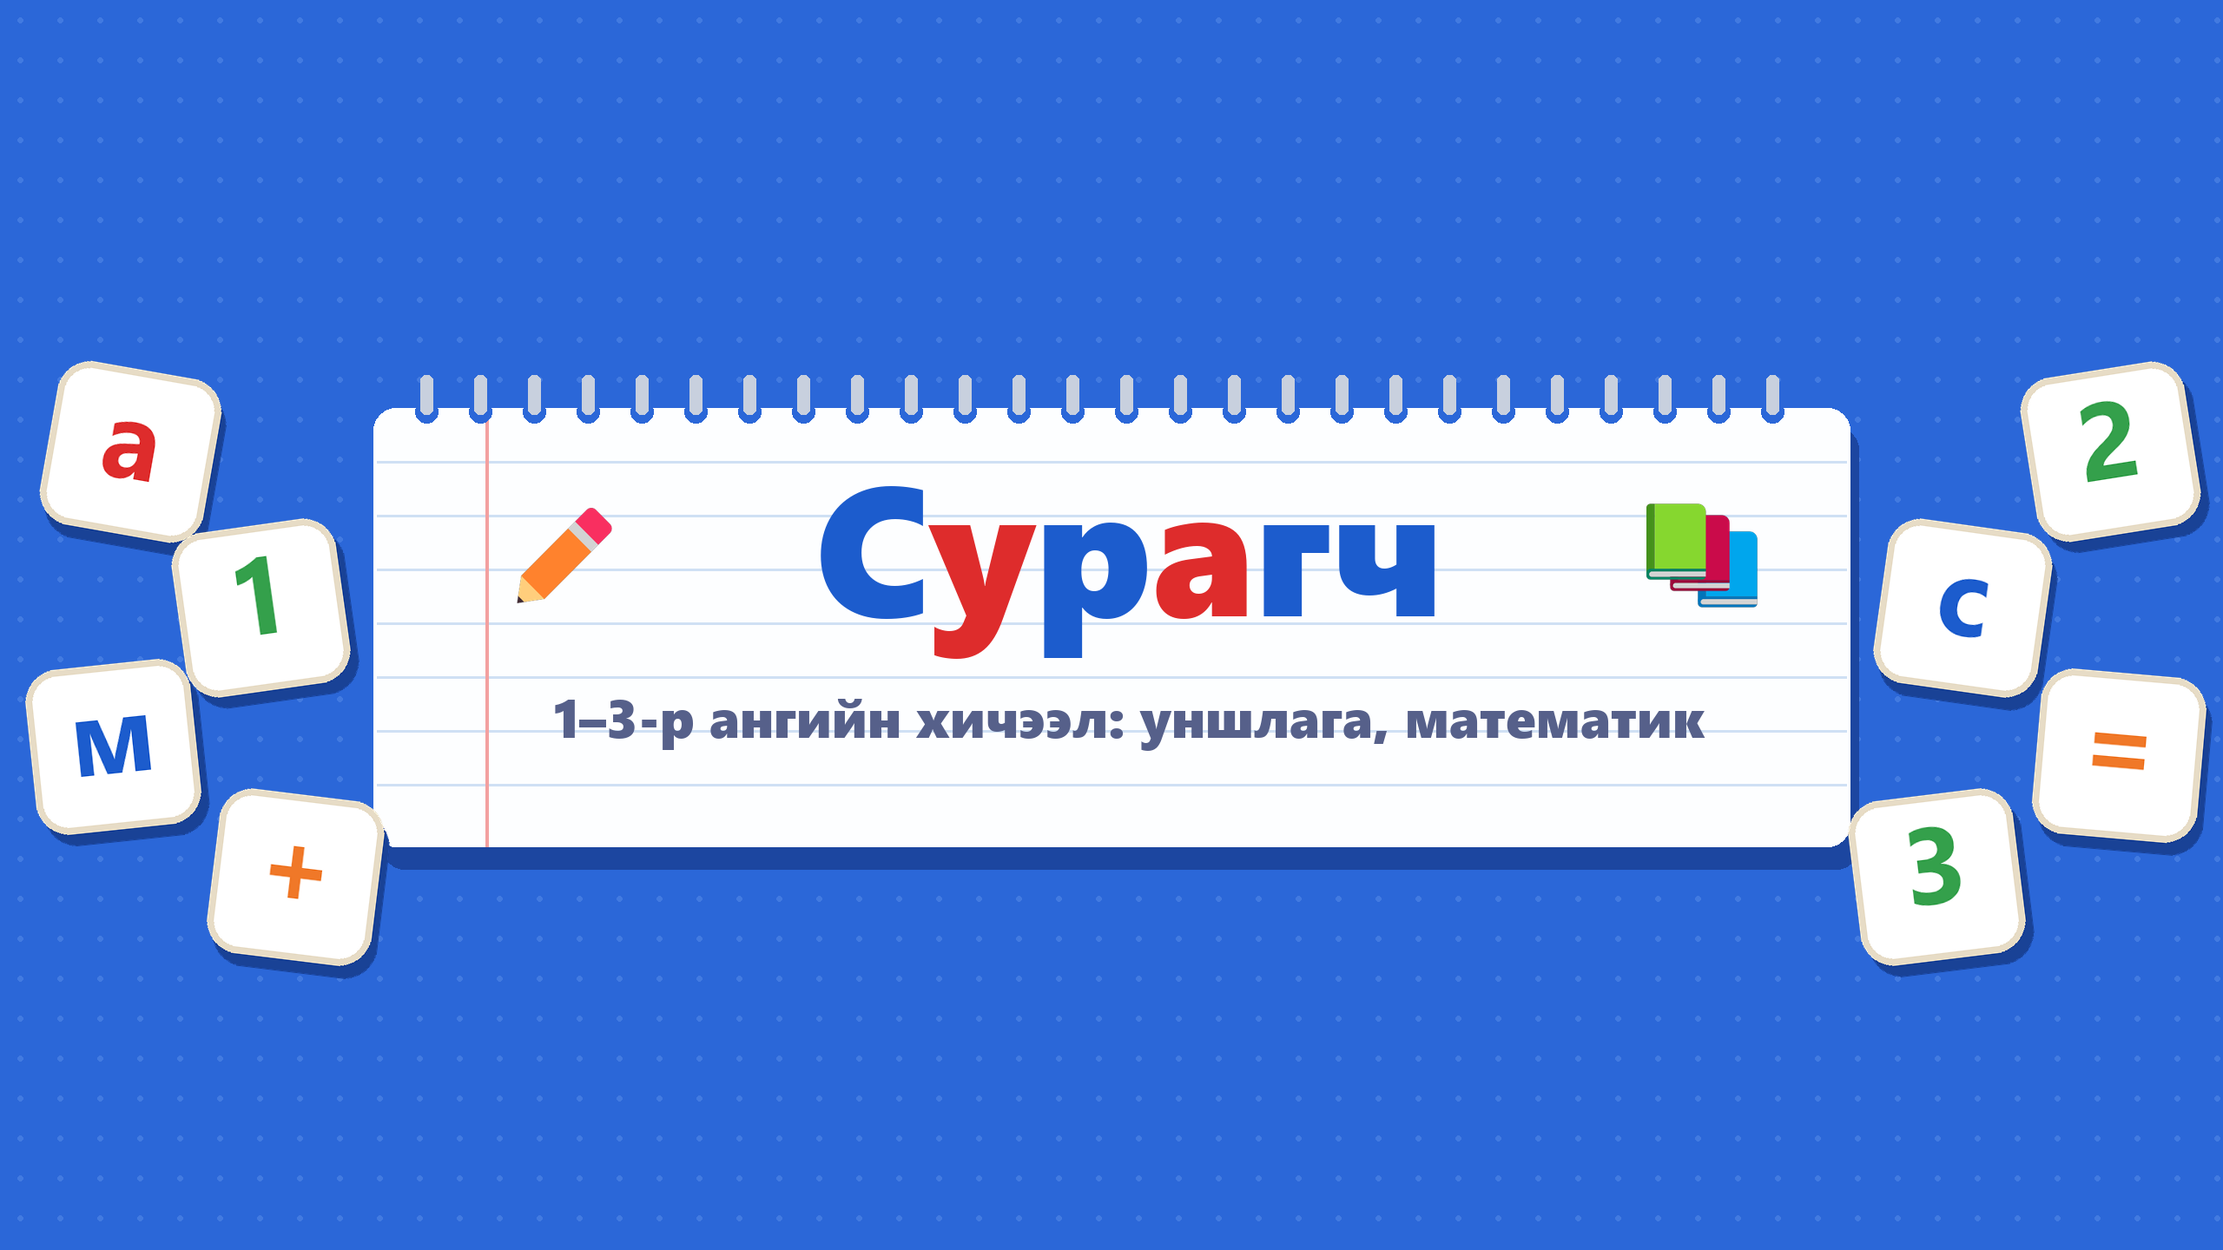
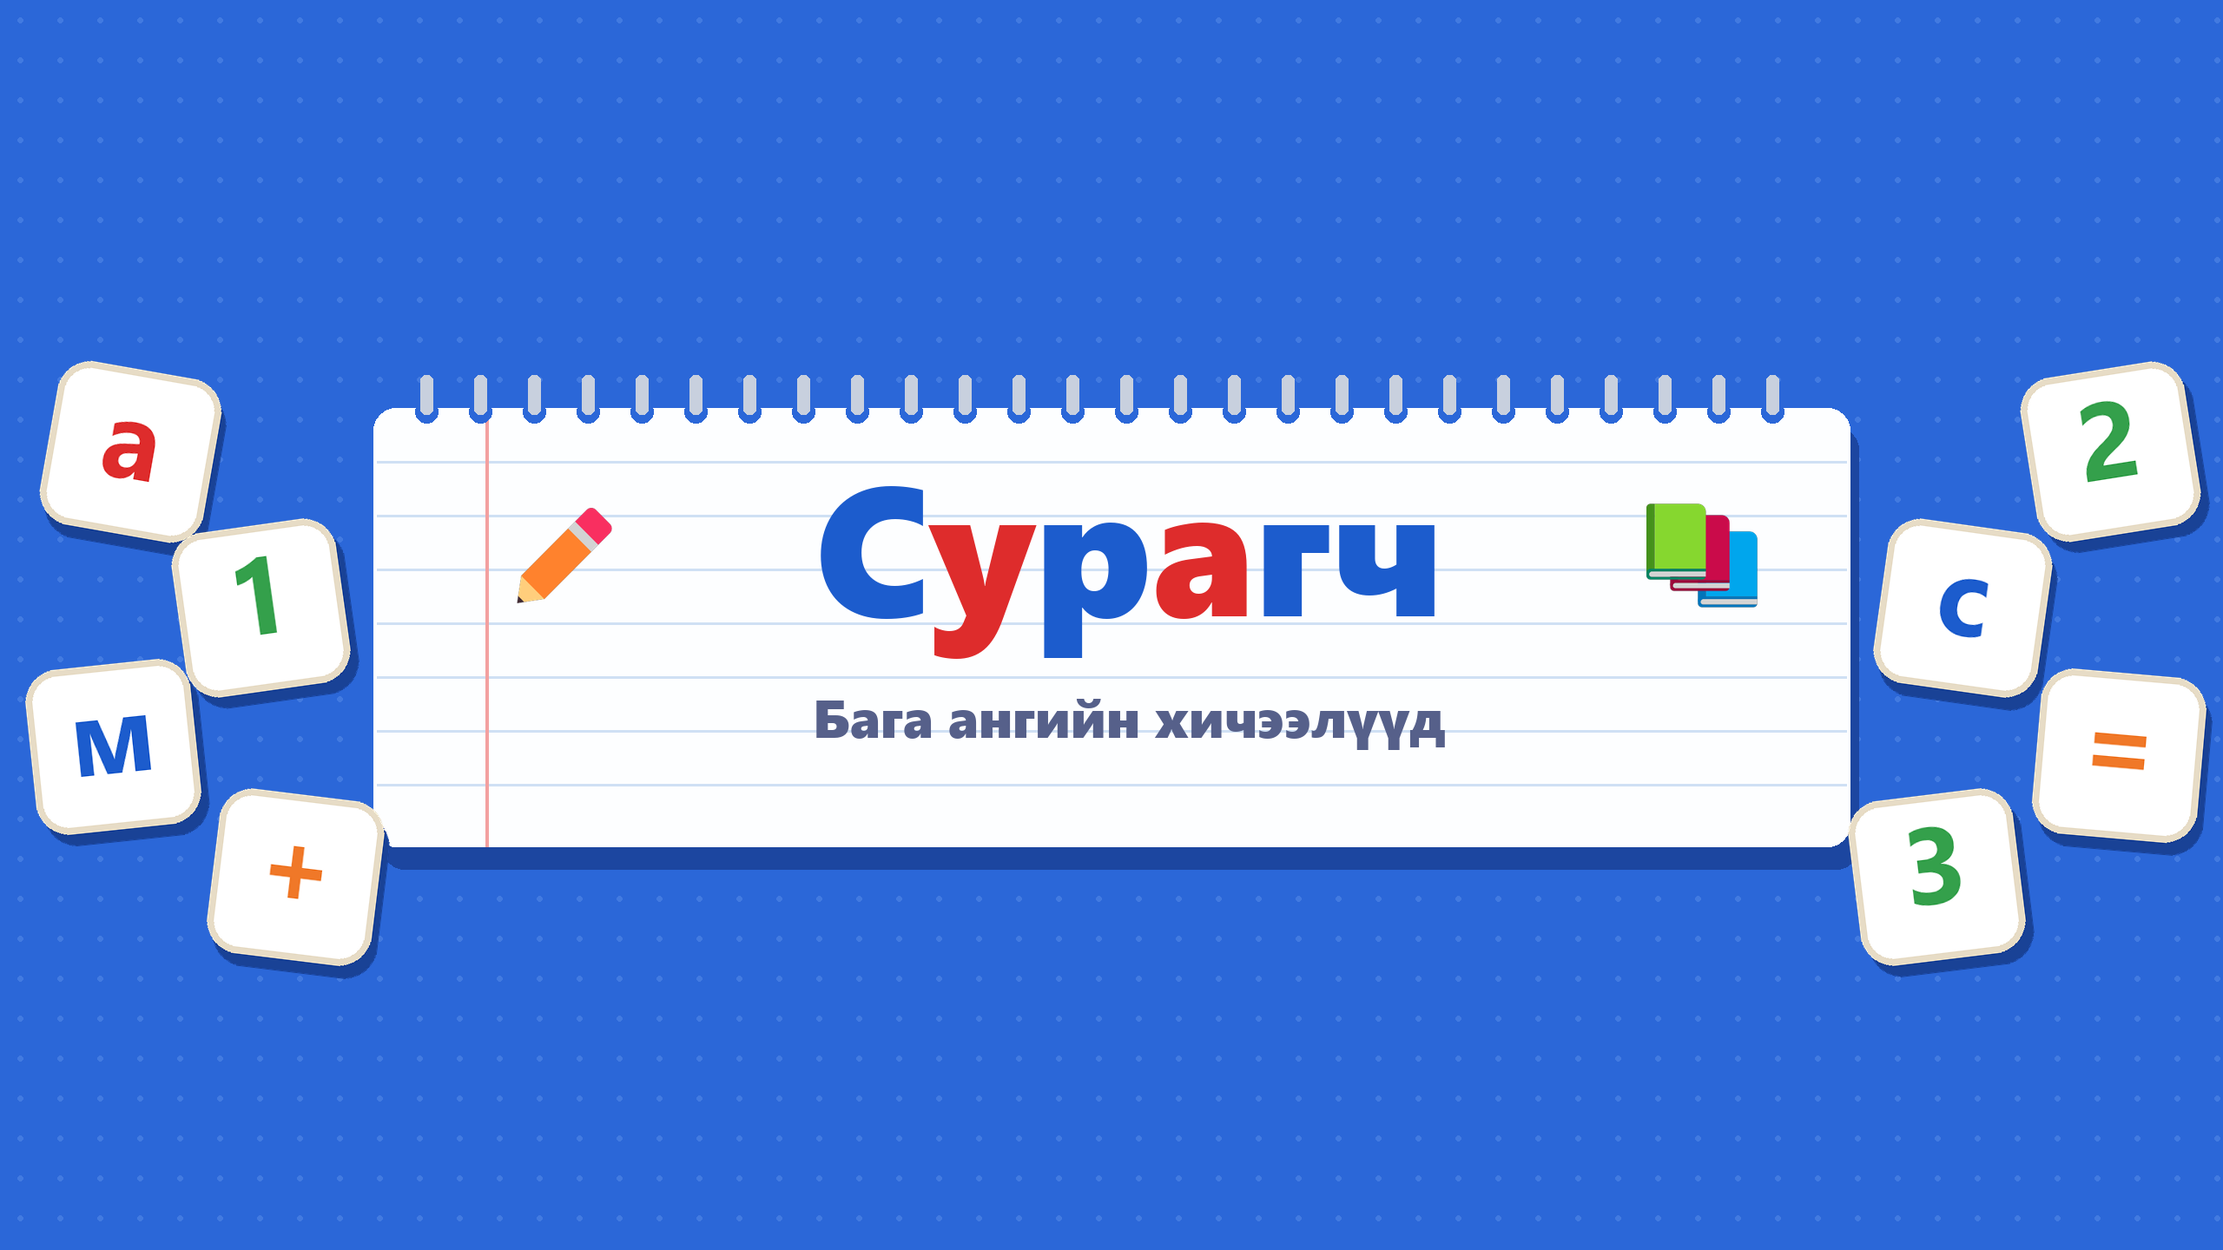
Бага анги (1–5) бүхэлд нь хамрах бүтэц: анги сонгох, ангийн хуудас, олон хичээл

Changed region(s): [[0.25, 0.5625, 0.7812, 0.5938]]

diff --git a/site/app.js b/site/app.js
@@ -97,60 +97,91 @@
   ];
 
   const BRAND = "Сурагч";
-  const GRADES = [1, 2, 3];
+  // Бага анги: 1-5. Шинэ хичээл нэмэхдээ доорх жагсаалтад нэмнэ (түлхүүр нь JSON-ийн "subject").
+  const GRADES = [1, 2, 3, 4, 5];
+  const GRADE_COLORS = ["#d92b2b", "#ef8a2a", "#3fa65a", "#2b67d8", "#8c36aa"];
   const SUBJECTS = [
-    ["reading", "📖", "Уншлага"],
+    ["mongol", "📖", "Монгол хэл"],
     ["math", "🔢", "Математик"],
+    ["orchin", "🌱", "Хүн ба орчин"],
+    ["baigal", "🔬", "Хүн ба байгаль"],
+    ["niigem", "🏛", "Хүн ба нийгэм"],
+    ["english", "🇬🇧", "Англи хэл"],
+    ["art", "🎨", "Дүрслэх урлаг, технологи"],
+    ["music", "🎵", "Хөгжим"],
+    ["pe", "⚽", "Биеийн тамир"],
   ];
-  const subjectName = (k) => (SUBJECTS.find((s) => s[0] === k) || [k, "", k])[2];
+  const subjectOf = (k) => SUBJECTS.find((s) => s[0] === k) || [k, "📘", k];
+  const subjectName = (k) => subjectOf(k)[2];
 
   function route() {
     stopAll();
     const [id, tab] = location.hash.replace(/^#\/?/, "").split("/");
     const lesson = LESSONS.find((l) => l.id === id);
-    if (lesson) lessonView(lesson, TABS.some((t) => t[0] === tab) ? tab : "video");
+    if (id === "g" && GRADES.includes(Number(tab))) gradeView(Number(tab));
+    else if (lesson) lessonView(lesson, TABS.some((t) => t[0] === tab) ? tab : "video");
     else home();
     window.scrollTo(0, 0);
   }
   window.addEventListener("hashchange", route);
 
   // ------------------------------------------------ нүүр
-  function lessonRow(l) {
+  function lessonRow(l, showPlace) {
+    const body = l.letters
+      ? `<div class="lesson-letters" aria-label="Үсгүүд: ${[...l.letters].join(", ")}">
+          ${[...l.letters].map((ch) => `<span class="mini${l.new.includes(ch) ? " new" : ""}">${colorize(ch)}</span>`).join("")}
+        </div>`
+      : `<div class="lesson-title">${esc(l.title || "")}</div>`;
     return `
       <li class="lesson-row">
         <span class="lesson-num" aria-hidden="true">${l.number}</span>
-        <div>
-          <div class="lesson-letters" aria-label="Үсгүүд: ${[...l.letters].join(", ")}">
-            ${[...l.letters].map((ch) => `<span class="mini${l.new.includes(ch) ? " new" : ""}">${colorize(ch)}</span>`).join("")}
-          </div>
-        </div>
+        <div>${body}${showPlace ? `<small>${l.grade}-р анги, ${subjectName(l.subject)}</small>` : ""}</div>
         <a class="btn" href="#/${l.id}">▶ ${l.number}-р хичээл</a>
       </li>`;
   }
 
   function home() {
-    document.title = `${BRAND} | 1–3-р ангийн хичээл`;
+    document.title = `${BRAND} | Бага ангийн хичээл`;
     const h1 = [...BRAND].map((ch, i) =>
       `<span class="tw ${cls(ch)}" style="animation-delay:${i * 60}ms">${esc(ch)}</span>`).join("");
+    const latest = LESSONS.slice().reverse().slice(0, 5);
     app.innerHTML = `
       <header class="hero">
         <h1 aria-label="${BRAND}">${h1}</h1>
-        <p>1–3-р ангийн хүүхдэд зориулсан хичээлүүд</p>
+        <p>Бага ангийн хүүхдэд зориулсан хичээлүүд</p>
       </header>
-      ${GRADES.map((g) => {
-        const inGrade = LESSONS.filter((l) => l.grade === g);
-        return `<section class="grade" aria-labelledby="g${g}">
-          <h2 class="grade-title" id="g${g}">${g}-р анги</h2>
-          ${inGrade.length ? SUBJECTS.map(([k, ico, name]) => {
-            const list = inGrade.filter((l) => l.subject === k);
-            return `<div class="subject">
-              <h3><span aria-hidden="true">${ico}</span> ${name}</h3>
-              ${list.length ? `<ol class="lesson-list">${list.map(lessonRow).join("")}</ol>`
-                : `<p class="soon">Удахгүй нэмэгдэнэ.</p>`}
-            </div>`;
-          }).join("") : `<p class="soon">Хичээлүүд удахгүй нэмэгдэнэ.</p>`}
+      <h2 class="sec-title">Ангиа сонгоорой</h2>
+      <nav class="grade-grid" aria-label="Ангиуд">
+        ${GRADES.map((g, i) => {
+          const n = LESSONS.filter((l) => l.grade === g).length;
+          return `<a class="grade-card${n ? "" : " empty"}" href="#/g/${g}" style="--gc:${GRADE_COLORS[i]}">
+            <span class="gnum">${g}</span><span class="glbl">-р анги</span>
+            <span class="gcount">${n ? `${n} хичээл` : "Удахгүй"}</span>
+          </a>`;
+        }).join("")}
+      </nav>
+      ${latest.length ? `<h2 class="sec-title">Шинэ хичээлүүд</h2>
+        <ol class="lesson-list">${latest.map((l) => lessonRow(l, true)).join("")}</ol>` : ""}`;
+  }
+
+  function gradeView(g) {
+    document.title = `${g}-р анги | ${BRAND}`;
+    const inGrade = LESSONS.filter((l) => l.grade === g);
+    const keys = [...new Set([...SUBJECTS.map((s) => s[0]), ...inGrade.map((l) => l.subject)])]
+      .filter((k) => inGrade.some((l) => l.subject === k));
+    app.innerHTML = `
+      <div class="lesson-head">
+        <a class="btn ghost back" href="#/">← Нүүр</a>
+        <h1>${g}-р анги</h1>
+      </div>
+      ${keys.map((k) => {
+        const [, ico, name] = subjectOf(k);
+        return `<section class="subject">
+          <h2 class="subject-title"><span aria-hidden="true">${ico}</span> ${name}</h2>
+          <ol class="lesson-list">${inGrade.filter((l) => l.subject === k).map((l) => lessonRow(l)).join("")}</ol>
         </section>`;
-      }).join("")}`;
+      }).join("")}
+      <p class="soon">${keys.length ? "Бусад хичээлүүд удахгүй нэмэгдэнэ." : "Энэ ангийн хичээлүүд удахгүй нэмэгдэнэ."}</p>`;
   }
 
   // ------------------------------------------------ хичээл
@@ -158,7 +189,7 @@
     document.title = `${subjectName(l.subject)}, ${l.number}-р хичээл: ${[...l.letters].join(" ")} | ${BRAND}`;
     app.innerHTML = `
       <div class="lesson-head">
-        <a class="btn ghost back" href="#/">← Нүүр</a>
+        <a class="btn ghost back" href="#/g/${l.grade}">← ${l.grade}-р анги</a>
         <h1>${l.number}-р хичээл <small>${l.grade}-р анги, ${subjectName(l.subject)}</small></h1>
         <div class="lesson-letters" aria-label="Үсгүүд">
           ${[...l.letters].map((ch) => `<span class="mini${l.new.includes(ch) ? " new" : ""}">${colorize(ch)}</span>`).join("")}

diff --git a/site/style.css b/site/style.css
@@ -149,20 +149,26 @@ button { font: inherit; color: inherit; cursor: pointer; }
 .btn.ghost { background: #fff; color: var(--ink); box-shadow: 0 6px 0 #c9d3e4; border: 3px solid #dbe3f0; }
 .btn.ghost:active { box-shadow: 0 2px 0 #c9d3e4; }
 
-/* анги, хичээлийн бүлэг */
-.grade { margin-bottom: var(--line); }
-.grade-title {
-  display: inline-block;
-  margin: 0 0 8px;
-  padding: 0 22px;
-  font-size: 30px; font-weight: 900;
-  line-height: var(--line);
-  background: var(--sun);
-  border-radius: 999px;
-  box-shadow: inset 0 -4px 0 rgba(0,0,0,.1);
+/* анги сонгох, хичээлийн бүлэг */
+.sec-title { margin: 0; font-size: 26px; font-weight: 900; line-height: var(--line); }
+.grade-grid { display: grid; grid-template-columns: repeat(5, minmax(0, 1fr)); gap: 14px; margin: 8px 0 var(--line); }
+.grade-card {
+  display: grid; justify-items: center; align-content: center; gap: 2px;
+  padding: 16px 8px 18px;
+  text-decoration: none; color: var(--ink);
+  background: #fff; border: 3px solid #e7dcc6; border-radius: 22px;
+  box-shadow: 0 6px 0 #dfe6f1;
+  transition: transform .08s, box-shadow .08s;
 }
-.subject h3 { margin: 0; font-size: 23px; font-weight: 900; line-height: var(--line); }
-.subject .lesson-list { margin-bottom: 6px; }
+.grade-card:active { transform: translateY(4px); box-shadow: 0 2px 0 #dfe6f1; }
+.grade-card .gnum { font-size: 66px; font-weight: 900; line-height: 1; color: var(--gc); }
+.grade-card .glbl { font-size: 20px; font-weight: 900; }
+.grade-card .gcount { font-size: 15px; font-weight: 800; color: var(--ink-soft); }
+.grade-card.empty .gnum { opacity: .4; }
+.subject { margin-bottom: var(--line); }
+.subject-title { margin: 0 0 6px; font-size: 26px; font-weight: 900; line-height: var(--line); }
+.lesson-row small { display: block; margin-top: 8px; font-size: 15px; font-weight: 800; color: var(--ink-soft); }
+.lesson-title { font-size: 24px; font-weight: 900; }
 .soon { margin: 0; font-weight: 700; font-size: 18px; line-height: var(--line); color: var(--ink-soft); }
 
 /* ------------------------------------------------ хичээлийн толгой */
@@ -314,6 +320,9 @@ button { font: inherit; color: inherit; cursor: pointer; }
   .lesson-row .btn { grid-column: 1 / -1; justify-self: start; }
   .lesson-num { width: 58px; height: 58px; font-size: 26px; }
   .lesson-head .lesson-letters { display: none; }
+  .grade-grid { grid-template-columns: repeat(3, minmax(0, 1fr)); gap: 10px; }
+  .grade-card .gnum { font-size: 48px; }
+  .grade-card .glbl { font-size: 16px; }
   .lesson-head h1 { font-size: 28px; }
   .lesson-letters .mini { width: 42px; height: 48px; font-size: 28px; }
   .tab { padding: 8px 12px 10px; font-size: 16px; }

diff --git a/site/index.html b/site/index.html
@@ -3,8 +3,8 @@
 <head>
 <meta charset="utf-8">
 <meta name="viewport" content="width=device-width, initial-scale=1">
-<title>Сурагч | 1–3-р ангийн хичээл</title>
-<meta name="description" content="Сурагч: 1–3-р ангийн хүүхдэд зориулсан уншлага, математикийн хичээл. Видео, дасгал, тоглоом.">
+<title>Сурагч | Бага ангийн хичээл</title>
+<meta name="description" content="Сурагч: бага ангийн (1–5-р анги) хүүхдэд зориулсан хичээлүүд. Видео, дасгал, тоглоом.">
 <link rel="preconnect" href="https://fonts.googleapis.com">
 <link rel="preconnect" href="https://fonts.gstatic.com" crossorigin>
 <link href="https://fonts.googleapis.com/css2?family=Nunito:wght@600;800;900&display=swap&subset=cyrillic,cyrillic-ext" rel="stylesheet">

diff --git a/site/data/lessons.js b/site/data/lessons.js
@@ -2,7 +2,8 @@
 window.LESSONS = [
  {
   "id": "hicheel_07",
-  "subject": "reading",
+  "subject": "mongol",
+  "type": "reading",
   "grade": 1,
   "number": 7,
   "title": "Уншиж сурцгаая!",

diff --git a/build_site.py b/build_site.py
@@ -24,7 +24,7 @@ def build_lesson(path):
     with open(path, encoding="utf-8") as f:
         cfg = json.load(f)
     M.validate(cfg)
-    name = os.path.splitext(os.path.basename(path))[0]
+    name = M.lesson_id(path)
     tts = M.TTS(cfg.get("voice", "mn-MN-YesuiNeural"), os.path.join(ROOT, ".tts_cache"))
     lesson = M.Lesson(cfg, tts)
     rn, rr = lesson.rn, lesson.rr
@@ -43,7 +43,8 @@ def build_lesson(path):
     info = cfg.get("letter_info", {})
     data = {
         "id": name,
-        "subject": cfg.get("subject", "reading"),
+        "subject": cfg.get("subject", "mongol"),
+        "type": cfg.get("type", "reading"),
         "grade": cfg.get("grade", 1),
         "number": cfg.get("lesson_number"),
         "title": cfg.get("title", "Уншиж сурцгаая!"),
@@ -103,7 +104,7 @@ def build_lesson(path):
 
 
 def main():
-    lessons = [build_lesson(p) for p in sorted(glob.glob(os.path.join(ROOT, "lessons", "*.json")))]
+    lessons = [build_lesson(p) for p in sorted(glob.glob(os.path.join(ROOT, "lessons", "**", "*.json"), recursive=True))]
     lessons.sort(key=lambda d: (d["grade"], d["subject"], d["number"] or 0))
     os.makedirs(os.path.join(SITE, "data"), exist_ok=True)
     with open(os.path.join(SITE, "data", "lessons.js"), "w", encoding="utf-8") as f:

diff --git a/make_lesson.py b/make_lesson.py
@@ -702,6 +702,15 @@ def draw_overlay(fr, d, section, letters, new):
 
 # ----------------------------------------------------------------- шалгалт, гаргалт
 
+def lesson_id(cfg_path):
+    """lessons/ хавтсаас харьцангуй замаар давтагдашгүй нэр: lessons/1/mongol/h07.json -> 1-mongol-h07"""
+    base = os.path.join(os.path.dirname(os.path.abspath(__file__)), "lessons")
+    rel = os.path.relpath(os.path.abspath(cfg_path), base)
+    if rel.startswith(".."):
+        rel = os.path.basename(cfg_path)
+    return os.path.splitext(rel)[0].replace("\\", "-").replace("/", "-")
+
+
 def validate(cfg):
     ok = set(cfg["letters"])
     bad = []
@@ -856,7 +865,7 @@ def main():
     letters, new = cfg["letters"], cfg.get("new_letters", "")
     bg = make_bg()
     starts = [s[0] for s in tl.scenes]
-    name = os.path.splitext(os.path.basename(cfg_path))[0]
+    name = lesson_id(cfg_path)
     out_dir = os.path.join(root, "videos")
     os.makedirs(out_dir, exist_ok=True)
     print(f"Үргэлжлэх хугацаа: {int(tl.t // 60)}:{int(tl.t % 60):02d}, {len(tl.scenes)} үзэгдэл")

diff --git a/make_channel_art.py b/make_channel_art.py
@@ -84,7 +84,7 @@ def banner(path):
     paper(d, box, 62, 560, 26)
     spiral(d, box[0] + 30, box[2] - 30, box[1] + 4, 62, 13)
     colored_text(d, M.BRAND, 1300, 660, 210)
-    M.draw_text_center(d, "1–3-р ангийн хичээл: уншлага, математик", 1300, 835, 62, INK_SOFT)
+    M.draw_text_center(d, "Бага ангийн хичээлүүд", 1300, 835, 62, INK_SOFT)
     # хажуугийн үсгийн хавтангууд (компьютер, ТВ дээр харагдана)
     left = [("а", 150, 520, -10), ("1", 300, 700, 8), ("м", 130, 860, 6), ("+", 340, 1010, -7)]
     right = [("2", 2430, 520, 9), ("с", 2260, 700, -8), ("=", 2440, 870, -5), ("3", 2230, 1010, 7)]

diff --git a/README.md b/README.md
@@ -1,6 +1,8 @@
-# Сурагч — 1–3-р ангийн хичээл
+# Сурагч — бага ангийн хичээл
 
-«Уншиж сурцгаая!» нь 1-р ангийн уншлагын цуврал. Цаашид математик болон 2, 3-р ангийн хичээлүүд нэмэгдэнэ.
+Бага ангийн (1–5-р анги) бүх хичээлийг хамрах зорилготой. «Уншиж сурцгаая!» нь 1-р ангийн Монгол хэлний (уншлагын) цуврал.
+
+Хичээлүүдийг `lessons/<анги>/<хичээл>/` хавтсанд хадгалж болно (жишээ нь `lessons/1/math/hicheel_01.json`). Хичээлийн түлхүүрүүд (`subject`): `mongol`, `math`, `orchin`, `baigal`, `niigem`, `english`, `art`, `music`, `pe`. Шинэ хичээл нэмэх бол `site/app.js` доторх `SUBJECTS` жагсаалтад нэмнэ.
 
 Сайт: https://ikhbyr.github.io/suragch/
 
@@ -21,7 +23,7 @@
 ## Шинэ хичээл нэмэх
 
 1. `lessons/hicheel_07.json` файлыг `hicheel_08.json` нэрээр хуулна.
-2. `grade` (анги: 1, 2, 3), `subject` (`reading` = уншлага, `math` = математик) болон `letters`, `new_letters`, `letter_info`, `words`, `sentences`, `quiz` хэсгийг шинэчилнэ.
+2. `grade` (анги: 1–5), `subject` (дээрх түлхүүрүүдээс) болон `letters`, `new_letters`, `letter_info`, `words`, `sentences`, `quiz` хэсгийг шинэчилнэ.
    Уншуулах үгэнд үзээгүй үсэг орвол скрипт анхааруулна.
 3. Дараах командуудыг ажиллуулна:
 
